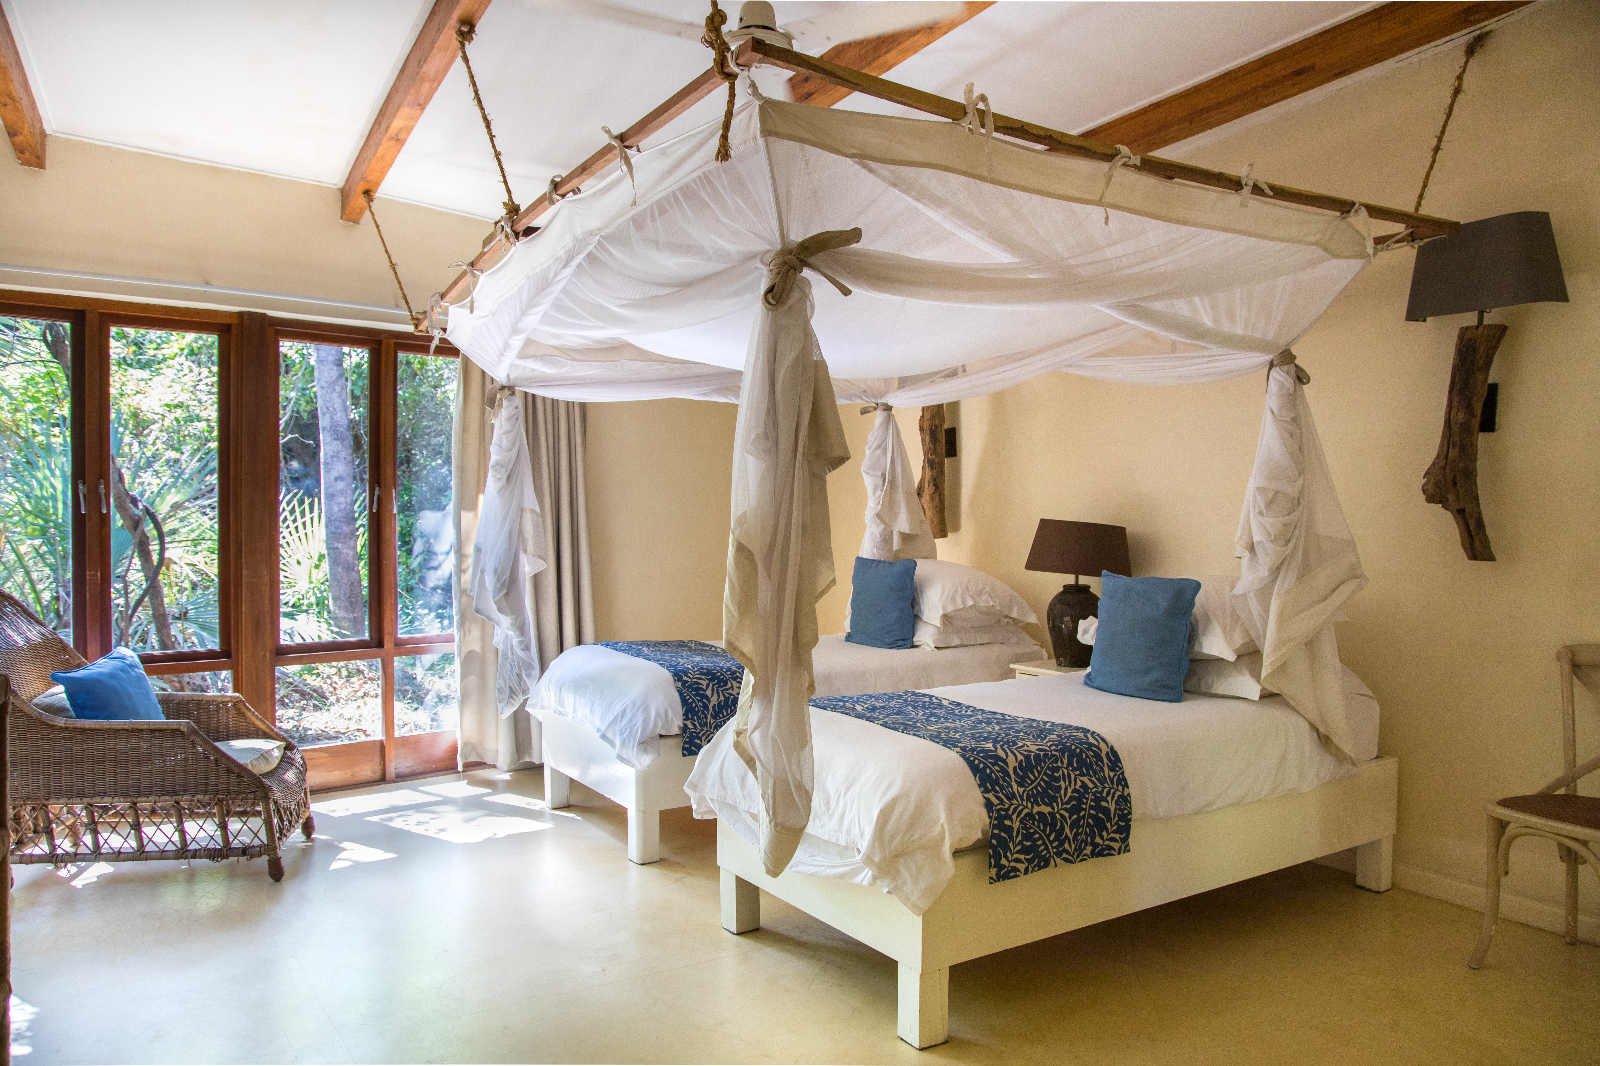
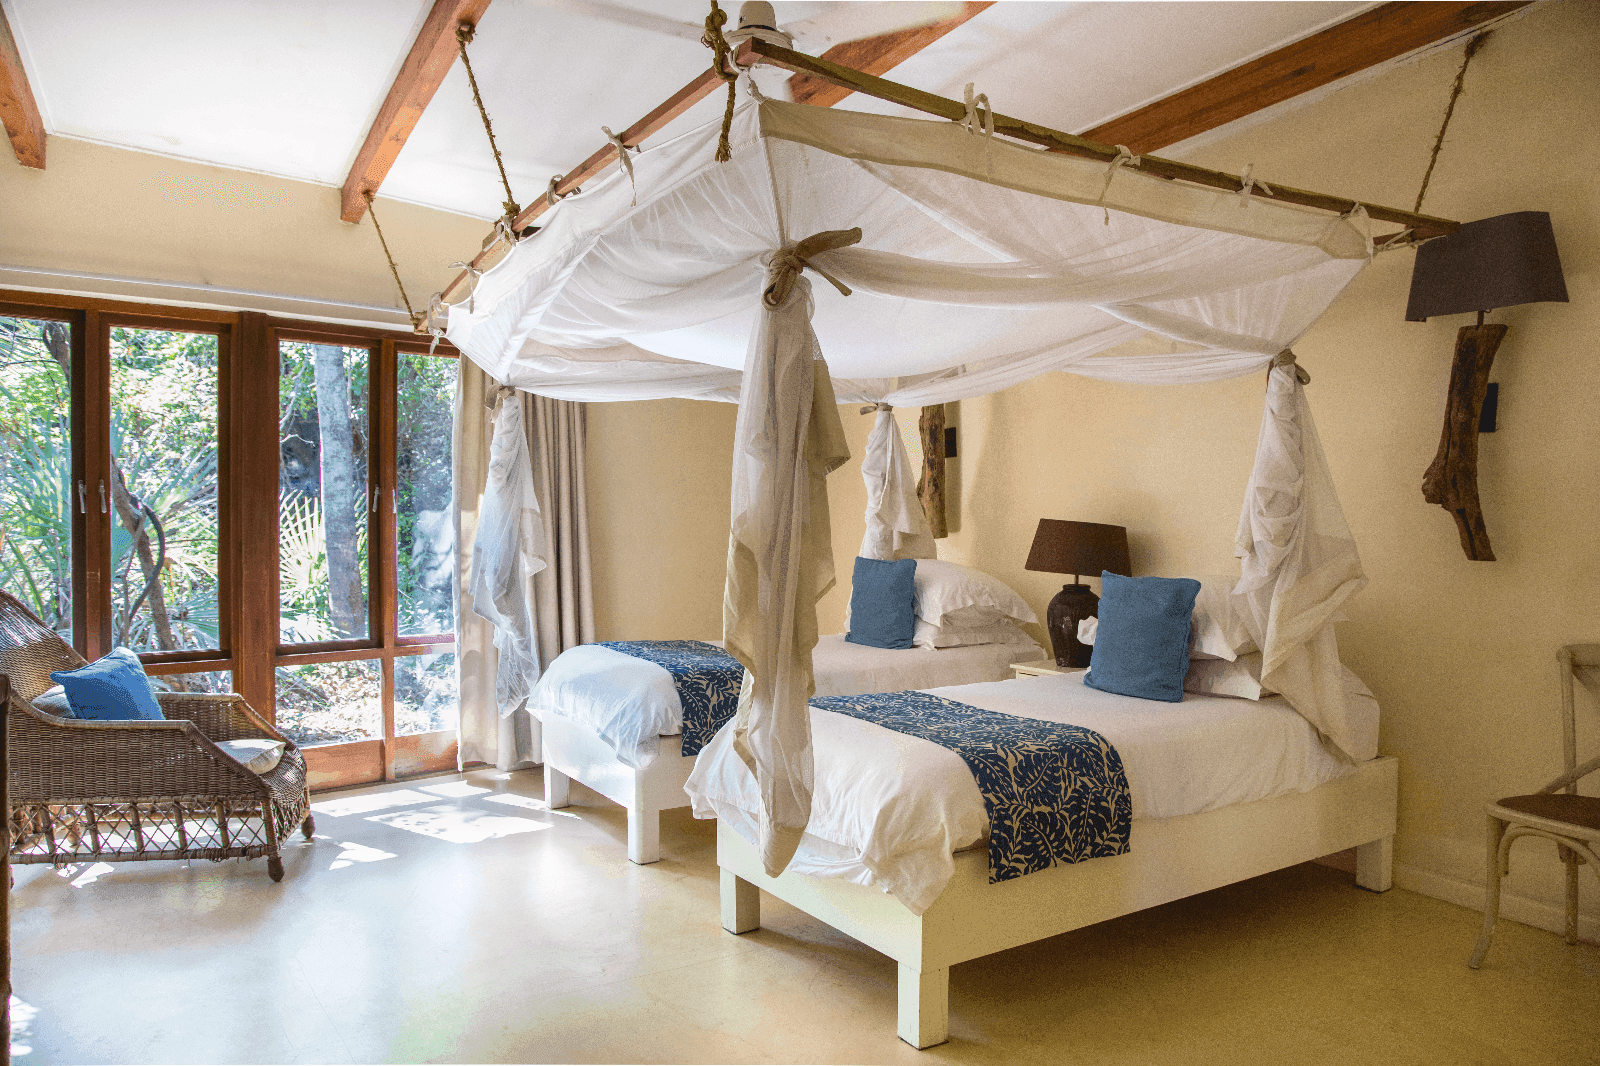
chore(size): disable production source maps and exclude dev artifacts from Vercel upload; all checks pass (tsc/eslint/vitest/build)

diff --git a/next.config.ts b/next.config.ts
@@ -38,6 +38,8 @@ const securityHeaders = [
 ];
 
 const nextConfig: NextConfig = {
+  // Keep production bundles lean: no source maps in the deployed output.
+  productionBrowserSourceMaps: false,
   images: {
     remotePatterns: [
       {
